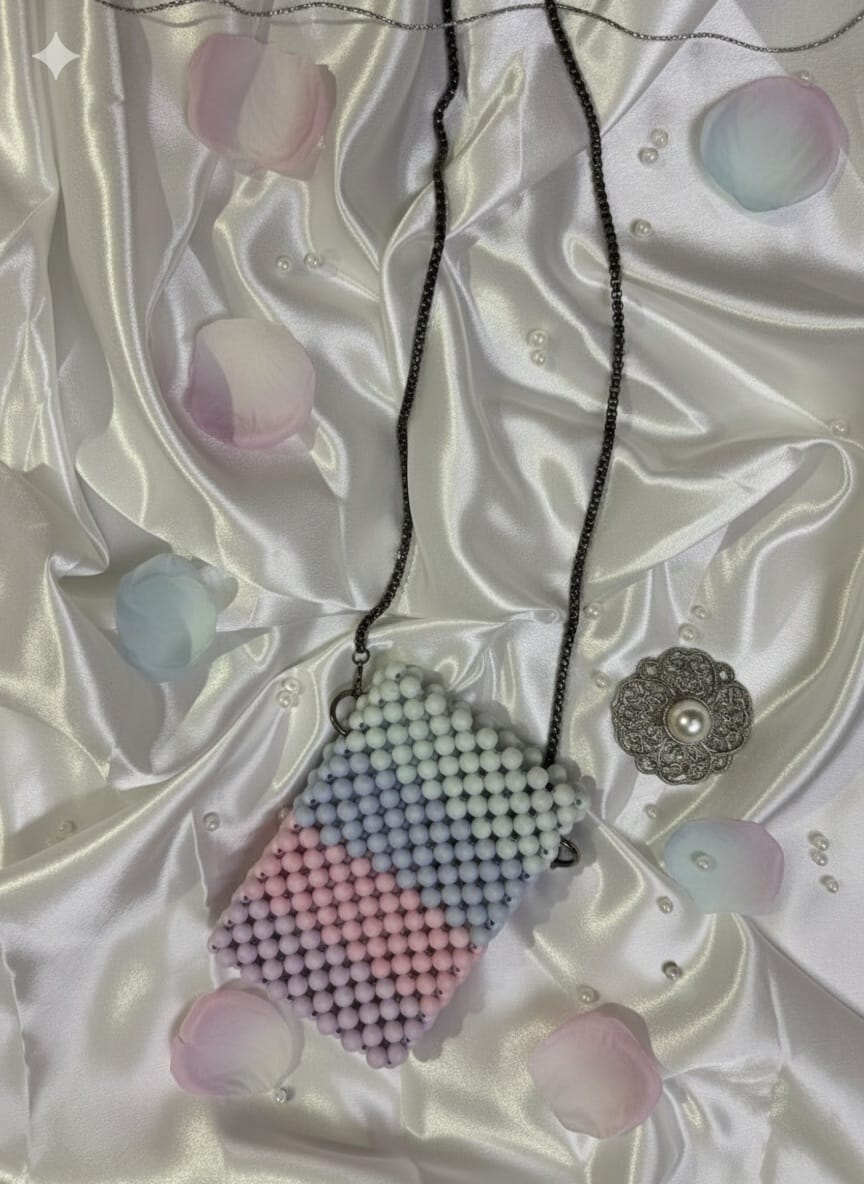
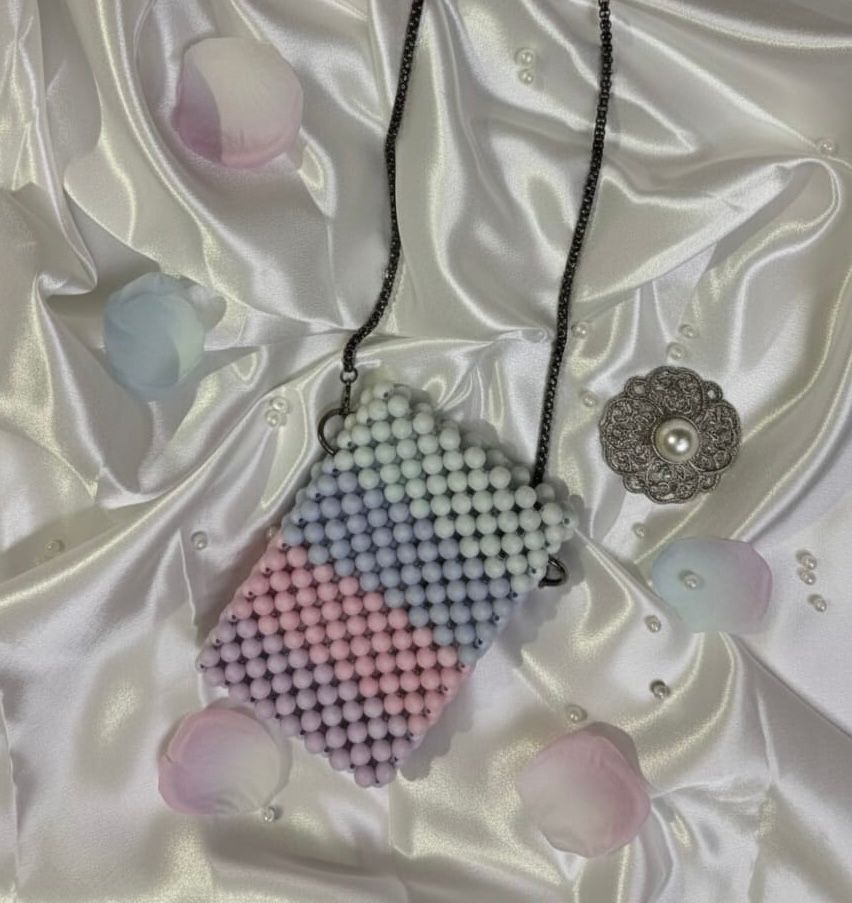
xyz

diff --git a/Final/index.html b/Final/index.html
@@ -261,6 +261,13 @@
 				</header>
         <main class="category-items">
           <category-item
+            image-url="images/Slings/Sling7.jpeg"
+            image-alt="Bag1"
+            item-header="Sling Bag - Quad Tone"
+            item-price="899"
+						item-message="Most Selling"
+          ></category-item>
+          <category-item
             image-url="images/Slings/Sling1.jpg"
             image-alt="Bag1"
             item-header="Sling Bag - Triple Tone"
@@ -350,6 +357,12 @@
             item-header="Card Holder - Pearlescent"
             item-price="649"
           ></category-item>
+           <category-item
+            image-url="images/Bags/Bag6.jpeg"
+            image-alt="BagCardHolder"
+            item-header="Card Holder - Glory"
+            item-price="649"
+          ></category-item>
         </main>
             </section>
       <section class="category" data-category="AirpodCase">
@@ -387,10 +400,10 @@
             item-price="399"
           ></category-item>
           <category-item
-            image-url="images/AirpodCases/Case5.jpeg"
+            image-url="images/AirpodCases/Case5_2.jpeg"
             image-alt="Case5"
             item-header="Airpod Case - Pearl"
-            item-price="399"
+            item-price="449"
           ></category-item>
         </main>
       </section>
@@ -417,7 +430,7 @@
 						item-message="❤ Most Sold"
           ></category-item>
           <category-item
-            image-url="images/KeyRings/KeyRing2.png"
+            image-url="images/KeyRings/KeyRing2.jpeg"
             image-alt="Ring3"
             item-header="Beaded Melody Key Ring"
             item-price="249"
@@ -436,8 +449,8 @@
             item-price="229"
           ></category-item>
           <category-item
-            image-url="images/KeyRings/KeyRing5.jpg"
-            image-alt="Ring5"
+            image-url="images/KeyRings/KeyRing10.jpg"
+            image-alt="Ring10"
             item-header="Playful Kaudi Key Ring"
             item-price="229"
           ></category-item>
